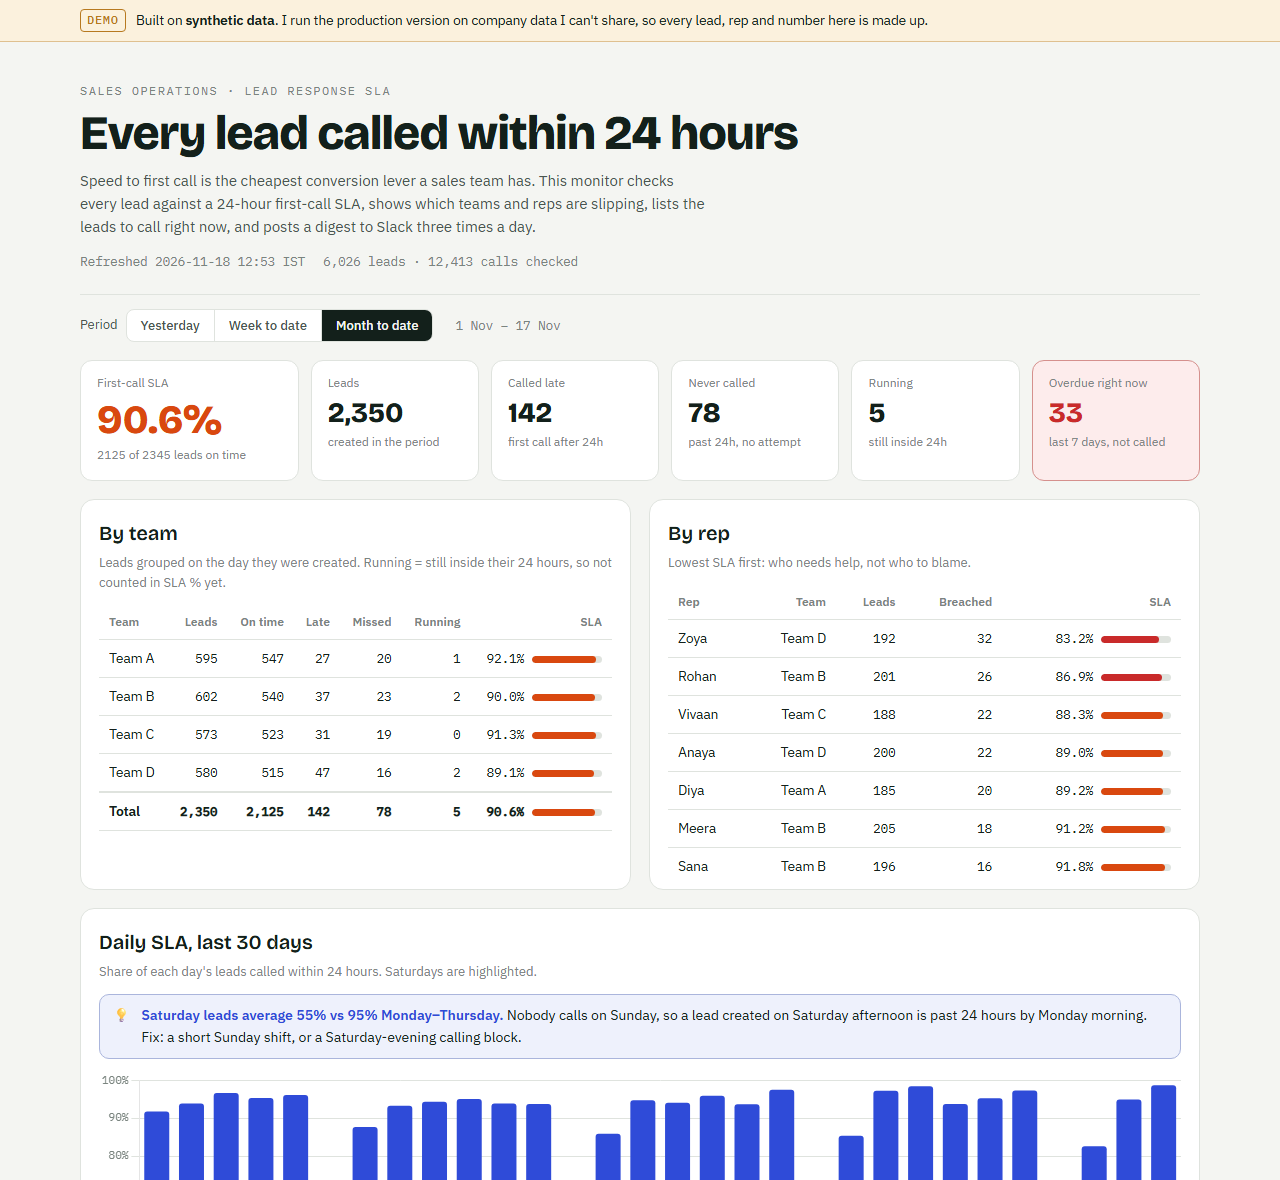
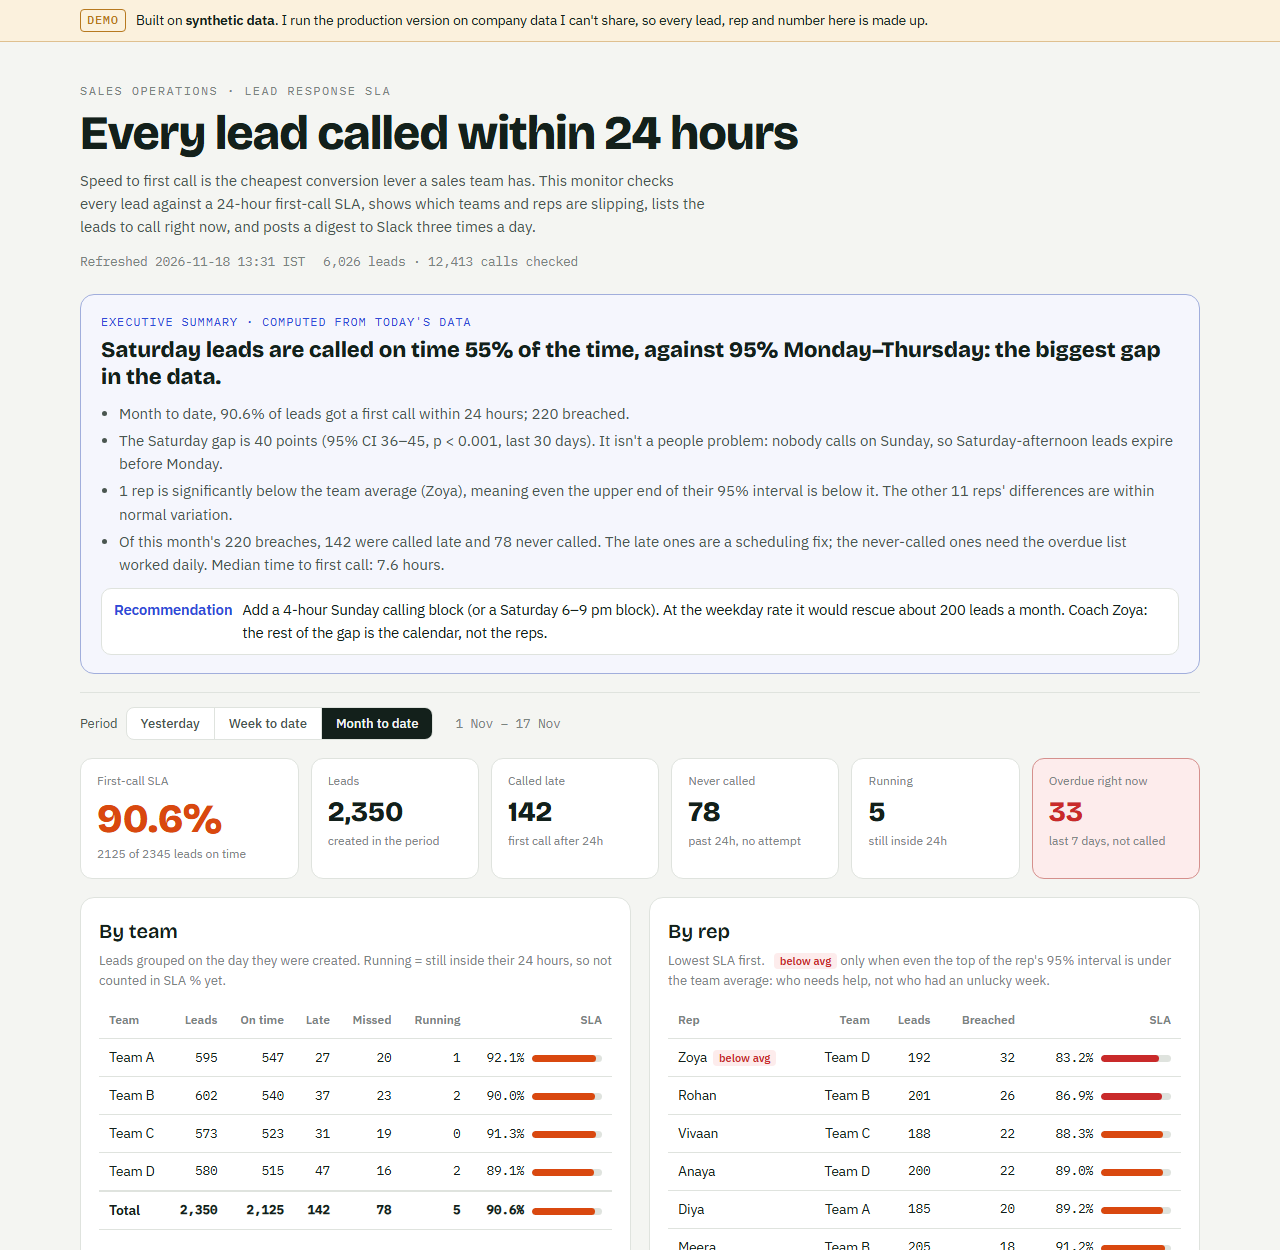
Upgrade: executive summary, statistical checks, limitations, decision memo and data dictionary

diff --git a/site/index.html b/site/index.html
@@ -60,6 +60,15 @@ h1{font-family:var(--f-display);font-weight:800;font-size:clamp(30px,4.6vw,48px)
 .card{background:var(--sheet);border:1px solid var(--line);border-radius:14px;padding:18px 18px 14px;margin-bottom:18px}
 .card h2{font-family:var(--f-display);font-weight:600;font-size:20px;margin:0 0 4px}
 .card .sub{color:var(--ink-3);font-size:13px;margin:0 0 12px}
+.exec{border:1px solid color-mix(in srgb,var(--accent) 35%,var(--line));background:color-mix(in srgb,var(--accent) 5%,var(--sheet));border-radius:14px;padding:18px 20px;margin:0 0 18px}
+.exec .lbl{font-family:var(--f-mono);font-size:11.5px;letter-spacing:.1em;text-transform:uppercase;color:var(--accent)}
+.exec h2{font-family:var(--f-display);font-weight:700;font-size:22px;line-height:1.25;margin:6px 0 10px}
+.exec ul{margin:0 0 12px;padding-left:18px;color:var(--ink-2)} .exec li{margin-bottom:4px}
+.exec .rec{display:flex;gap:10px;align-items:flex-start;background:var(--sheet);border:1px solid var(--line);border-radius:10px;padding:10px 12px;font-size:14.5px}
+.exec .rec b{color:var(--accent);flex:none}
+.sig{font-size:11px;font-weight:600;color:var(--bad);background:var(--bad-soft);border-radius:4px;padding:1px 6px;margin-left:6px}
+.ci{font-family:var(--f-mono);font-size:11px;color:var(--ink-3);margin-left:6px}
+.limits ul{margin:0;padding-left:18px;color:var(--ink-2)} .limits li{margin-bottom:6px}
 .insight{display:flex;gap:10px;align-items:flex-start;background:color-mix(in srgb,var(--accent) 8%,var(--sheet));border:1px solid color-mix(in srgb,var(--accent) 30%,var(--line));border-radius:10px;padding:10px 12px;font-size:14px;margin-bottom:12px}
 .insight b{color:var(--accent)}
 .chart{position:relative;height:280px}
@@ -120,6 +129,8 @@ footer{color:var(--ink-3);font-size:13px;padding:22px 0 40px;display:flex;flex-w
 </div></header>
 
 <main class="wrap">
+  <section class="exec" id="exec" aria-label="Executive summary"></section>
+
   <div class="controls">
     <div class="ctl">Period
       <div class="seg" id="f-period"><button data-v="D-1" aria-pressed="false">Yesterday</button><button data-v="WTD" aria-pressed="false">Week to date</button><button data-v="MTD" aria-pressed="true">Month to date</button></div>
@@ -137,7 +148,7 @@ footer{color:var(--ink-3);font-size:13px;padding:22px 0 40px;display:flex;flex-w
     </section>
     <section class="card">
       <h2>By rep</h2>
-      <p class="sub">Lowest SLA first: who needs help, not who to blame.</p>
+      <p class="sub">Lowest SLA first. <span class="sig">below avg</span> only when even the top of the rep's 95% interval is under the team average: who needs help, not who had an unlucky week.</p>
       <div class="tablewrap scroll" style="max-height:290px"><table id="t-rep"><thead><tr><th>Rep</th><th>Team</th><th>Leads</th><th>Breached</th><th>SLA</th></tr></thead><tbody></tbody></table></div>
     </section>
   </div>
@@ -173,6 +184,16 @@ footer{color:var(--ink-3);font-size:13px;padding:22px 0 40px;display:flex;flex-w
     <h2>What lands in Slack</h2>
     <p class="sub">Generated by the same code as this page, and posted at 10:00, 14:00 and 19:00, Monday to Saturday.</p>
     <div class="slack" id="slack"></div>
+  </section>
+
+  <section class="card limits">
+    <h2>Limitations, and what I'd do next</h2>
+    <ul>
+      <li><b>An attempt isn't a conversation.</b> The SLA counts the first dial, so a rep can meet it with a 2-second call. Next: a second SLA on the first <i>connected</i> call, reported alongside, never instead.</li>
+      <li><b>24 clock hours ignores the calendar.</b> That's deliberate: it's what the lead experiences. But it means Saturday leads miss by design until there's Sunday cover. The fix is staffing, not the metric.</li>
+      <li><b>Calls must be logged to count.</b> Calls from personal phones or unsynced leads look like misses (they appear in the reasons chart). Next: match calls on phone number as well as lead ID.</li>
+      <li><b>Rep comparisons need volume.</b> With about 200 leads a month per rep, only large gaps are significant. Small differences are flagged as noise on purpose.</li>
+    </ul>
   </section>
 
   <section class="card how">
@@ -257,7 +278,7 @@ footer{color:var(--ink-3);font-size:13px;padding:22px 0 40px;display:flex;flex-w
     document.querySelector('#t-team tfoot').innerHTML = P.total ? '<tr><td>Total</td>'+row(P.total)+'</tr>' : '';
     var reps = P.reps.slice().sort(function(a,b){ return (a.sla_pct==null?101:a.sla_pct) - (b.sla_pct==null?101:b.sla_pct); });
     document.querySelector('#t-rep tbody').innerHTML = reps.map(function(g){
-      return '<tr><td>'+g.key+'</td><td>'+(D.repTeam[g.key]||'')+'</td><td class="num">'+fmt(g.leads)+'</td><td class="num">'+fmt(g.breached)+'</td><td class="num">'+pct(g.sla_pct)+'<span class="slabar"><i style="width:'+(g.sla_pct||0)+'%;background:'+slaColor(g.sla_pct)+'"></i></span></td></tr>';
+      return '<tr><td>'+g.key+(g.sig_below ? '<span class="sig">below avg</span>' : '')+'</td><td>'+(D.repTeam[g.key]||'')+'</td><td class="num">'+fmt(g.leads)+'</td><td class="num">'+fmt(g.breached)+'</td><td class="num">'+pct(g.sla_pct)+'<span class="slabar"><i style="width:'+(g.sla_pct||0)+'%;background:'+slaColor(g.sla_pct)+'"></i></span></td></tr>';
     }).join('');
   }
 
@@ -335,6 +356,11 @@ footer{color:var(--ink-3);font-size:13px;padding:22px 0 40px;display:flex;flex-w
   });
   document.querySelector('#t-list').closest('.card').id = 'call-now';
 
+  if (D.summary) {
+    var X = D.summary;
+    document.getElementById('exec').innerHTML = '<div class="lbl">Executive summary · computed from today\'s data</div><h2>' + X.headline + '</h2><ul>' +
+      X.points.map(function(p){ return '<li>' + p + '</li>'; }).join('') + '</ul><div class="rec"><b>Recommendation</b><span>' + X.recommendation + '</span></div>';
+  }
   function all(){ renderPeriod(); renderTrend(); renderDist(); renderReasons(); renderList(); renderSlack(); renderChecks(); }
   all();
   if (document.fonts && document.fonts.ready) document.fonts.ready.then(function(){ renderTrend(); renderDist(); renderReasons(); });

diff --git a/pipeline/build_report.js b/pipeline/build_report.js
@@ -47,11 +47,61 @@ const mtdBreached = rows.filter(r => r.created_date >= ranges.MTD.from && r.crea
 const reasonCounts = {};
 mtdBreached.forEach(r => { const k = reasonBy[r.lead_id] || 'No reason logged'; reasonCounts[k] = (reasonCounts[k] || 0) + 1; });
 
+// ---------- statistics ----------
+function wilson(k, n, z = 1.96) {
+  if (!n) return [null, null];
+  const p = k / n, d = 1 + z * z / n, c = (p + z * z / (2 * n)) / d;
+  const h = z * Math.sqrt(p * (1 - p) / n + z * z / (4 * n * n)) / d;
+  return [Math.max(0, c - h), Math.min(1, c + h)];
+}
+function erfc(x) {                       // Abramowitz-Stegun 7.1.26, |error| < 1.5e-7
+  const t = 1 / (1 + 0.3275911 * x);
+  return t * (0.254829592 + t * (-0.284496736 + t * (1.421413741 + t * (-1.453152027 + t * 1.061405429)))) * Math.exp(-x * x);
+}
+function twoPropTest(k1, n1, k2, n2) {    // two-sided p and 95% CI for p1 - p2
+  const p1 = k1 / n1, p2 = k2 / n2, pp = (k1 + k2) / (n1 + n2);
+  const z = (p1 - p2) / Math.sqrt(pp * (1 - pp) * (1 / n1 + 1 / n2));
+  const se = Math.sqrt(p1 * (1 - p1) / n1 + p2 * (1 - p2) / n2);
+  return { diff: p1 - p2, lo: p1 - p2 - 1.96 * se, hi: p1 - p2 + 1.96 * se, p: erfc(Math.abs(z) / Math.SQRT2) };
+}
+const dowOf = d => new Date(d + 'T00:00:00Z').getUTCDay();
+const done = r => r.status !== 'Running';
+const last30 = rows.filter(r => r.created_date >= days[0] && r.created_date < today && done(r));
+const sat = last30.filter(r => dowOf(r.created_date) === 6), wk = last30.filter(r => [1, 2, 3, 4].includes(dowOf(r.created_date)));
+const onTime = a => a.filter(r => r.status === 'On time').length;
+const satTest = twoPropTest(onTime(sat), sat.length, onTime(wk), wk.length);
+
+const mtdAll = periods.MTD.total, mtdRate = mtdAll && mtdAll.sla_pct != null ? mtdAll.sla_pct / 100 : null;
+for (const p of ['D-1', 'WTD', 'MTD']) {
+  periods[p].reps.forEach(g => {
+    const n = g.on_time + g.late + g.not_called, [lo, hi] = wilson(g.on_time, n);
+    g.ci = [lo, hi];
+    g.sig_below = mtdRate != null && hi != null && hi < mtdRate;        // even the optimistic end is below average
+  });
+}
+const below = periods.MTD.reps.filter(g => g.sig_below).map(g => g.key);
+const satPerMonth = sat.length / (days.length / 30.4);
+const rescued = Math.round(satPerMonth * Math.max(0, -satTest.diff));
+const fmtP = p => p < 0.001 ? 'p < 0.001' : `p = ${p.toFixed(3)}`;
+const summary = {
+  headline: `Saturday leads are called on time ${(100 * onTime(sat) / sat.length).toFixed(0)}% of the time, against ${(100 * onTime(wk) / wk.length).toFixed(0)}% Monday–Thursday: the biggest gap in the data.`,
+  points: [
+    `Month to date, ${mtdAll ? mtdAll.sla_pct.toFixed(1) : '–'}% of leads got a first call within 24 hours; ${mtdAll ? mtdAll.breached : 0} breached.`,
+    `The Saturday gap is ${(100 * -satTest.diff).toFixed(0)} points (95% CI ${(100 * -satTest.hi).toFixed(0)}–${(100 * -satTest.lo).toFixed(0)}, ${fmtP(satTest.p)}, last 30 days). It isn't a people problem: nobody calls on Sunday, so Saturday-afternoon leads expire before Monday.`,
+    below.length ? `${below.length} rep${below.length > 1 ? 's are' : ' is'} significantly below the team average (${below.join(', ')}), meaning even the upper end of their 95% interval is below it. The other ${periods.MTD.reps.length - below.length} reps' differences are within normal variation.`
+                 : `No rep is significantly below the team average; the differences between reps are within normal variation.`,
+    mtdAll ? `Of this month's ${mtdAll.breached} breaches, ${mtdAll.late} were called late and ${mtdAll.not_called} never called. The late ones are a scheduling fix; the never-called ones need the overdue list worked daily. Median time to first call: ${median != null ? median.toFixed(1) : '–'} hours.`
+           : `Median time to first call: ${median != null ? median.toFixed(1) : '–'} hours.`,
+  ],
+  recommendation: `Add a 4-hour Sunday calling block (or a Saturday 6–9 pm block). At the weekday rate it would rescue about ${rescued} leads a month. Coach ${below.length ? below.join(' and ') : 'no one individually'}: the rest of the gap is the calendar, not the reps.`,
+};
+
 const act = sla.actionList(rows, now, 7);
 const slim = r => ({ id: r.lead_id, owner: r.owner, team: r.team, source: r.source, created: r.created_ms, deadline: r.deadline_ms, reason: reasonBy[r.lead_id] || '' });
 
 const data = {
-  synthetic: true,
+  synthetic: true, summary,
+  sat_test: { sat_n: sat.length, sat_on_time: onTime(sat), wk_n: wk.length, wk_on_time: onTime(wk), ...satTest },
   generated_at: new Date(now + tz * 60000).toISOString().slice(0, 16).replace('T', ' ') + ' IST',
   now, sla_hours: sla.SLA_DEFAULTS.slaHours, periods,
   rep_team: Object.fromEntries(leads.map(l => [l.owner, l.team])), daily, dist, median_hours: median,

diff --git a/README.md b/README.md
@@ -14,6 +14,15 @@
 
 > **Demo with synthetic data.** I built and run the production version of this alert for a sales team, on company data I can't share. This repo is a clean-room rebuild: fresh code, made-up leads and reps, the same rules. It also includes a **Google Sheets template you can use on your own data**.
 
+## Executive summary
+
+- **The biggest gap is the calendar, not the reps.** Saturday leads are called on time about 55% of the time against 95% Monday to Thursday (a 40-point gap, 95% CI 36–45, p < 0.001), because nobody calls on Sunday.
+- **Only one rep is significantly below average.** Everyone else's difference is within normal variation, so the monitor doesn't flag them.
+- **Late calls outnumber missed ones**, about two to one. Each needs a different fix.
+- **Recommendation:** a 4-hour Sunday calling block (about 200 leads a month rescued at the weekday rate), coaching for the one outlier, and fixes for the two system causes behind "misses". Full reasoning in the **[decision memo](docs/decision_memo.md)**.
+
+*The live page recomputes this summary three times a day.*
+
 ## The problem
 
 Speed to first call is the cheapest conversion lever a sales team has, and it decays quietly. Nobody notices a lead that was never called. The team sees "calls made", not "leads missed". A weekly report arrives too late to save any of them.
@@ -45,6 +54,23 @@ The team needed three things:
 ## What the demo surfaces
 
 The made-up data is shaped like the real problem, so the report has something to find. For example, **Saturday leads land around 50% SLA against 95% on weekdays**. Nobody calls on Sunday, so a lead created on Saturday afternoon is past 24 hours by Monday morning. The page detects this automatically and suggests the fix.
+
+## Statistical checks
+
+- **Saturday vs weekdays:** a two-proportion z-test with a 95% interval on the difference, over the last 30 complete days.
+- **Reps:** each rep gets a 95% Wilson interval on their on-time rate. A rep is flagged only if even the *upper* end is below the team average. With about 200 leads a month each, that keeps normal variation from turning into a performance conversation.
+
+## Limitations, and what I'd do next
+
+- **An attempt isn't a conversation.** Next: a second SLA on the first *connected* call, reported alongside.
+- **24 clock hours ignores the calendar, deliberately.** It's what the lead experiences, so Saturday misses are a staffing fix, not a metric fix.
+- **Unlogged calls look like misses.** Next: match calls on phone number as well as lead ID.
+- **Rep comparisons need volume.** Only large gaps are significant at this size, by design.
+
+## Documents
+
+- **[Decision memo](docs/decision_memo.md):** the decision, evidence, options, recommendation, and what would change it
+- **[Data dictionary](docs/data_dictionary.md):** inputs, statuses, periods, metrics and statistical rules
 
 ## Run it locally
 

diff --git a/docs/decision_memo.md b/docs/decision_memo.md
@@ -1,0 +1,36 @@
+# Decision memo: closing the lead-response gap
+
+**To:** Head of Sales, sales managers · **From:** Analytics · **Data:** synthetic demo, last 45 days
+
+> Figures are from the live demo on the day this memo was written. The [live executive summary](https://nikhilveerwani.github.io/lead-sla-monitor/) recomputes them three times a day.
+
+## The decision
+
+About 9% of leads miss the 24-hour first-call SLA. Is that a rep-performance problem to coach, or a process problem to fix?
+
+## What we found
+
+1. **The biggest gap is the calendar, not the people.** Saturday leads are called on time 55% of the time against 95% Monday to Thursday: a 40-point gap (95% CI 36–45, p < 0.001). Nobody calls on Sunday, so a lead created Saturday afternoon is past 24 hours by Monday morning.
+2. **Only one rep is significantly below the team average** (Zoya). The other 11 reps differ by amounts that are within normal variation for about 200 leads a month each. Coaching them on this metric would be reacting to noise.
+3. **Late calls outnumber missed ones.** Of this month's breaches, about two-thirds were called late and one-third never called. The two need different fixes: scheduling for the late ones, a worked overdue list for the rest.
+4. **A large share of breaches carry a process reason** in the team's own notes: leads not synced to the CRM, reassigned late, calls from personal phones that never got logged. Several of these are system issues that look like rep misses.
+
+## Options
+
+| Option | Upside | Risk |
+|---|---|---|
+| A. Push all reps harder on the SLA | Simple message | Blames 11 reps for a calendar problem; doesn't touch Saturday |
+| **B. Fix the weekend, coach the one outlier (recommended)** | Targets the biggest, proven gap | Needs weekend staffing |
+| C. Change the SLA to "24 working hours" | Number improves overnight | The lead's experience doesn't; it hides the problem |
+
+## Recommendation: Option B
+
+1. **Add a 4-hour Sunday calling block**, or a Saturday 6–9 pm block if Sunday isn't possible. At the weekday on-time rate, that rescues about **200 leads a month**.
+2. **Coach Zoya individually**, using the breach reasons to separate rep habits from system issues first.
+3. **Fix the two system causes** that show up as misses: CRM sync failures and calls from unlogged personal phones.
+4. **Keep the SLA at 24 clock hours.** It measures what the lead experiences.
+
+## What would change this recommendation
+
+- A Sunday pilot shows Saturday leads called on Sunday convert no better than those called on Monday: then the gap is cosmetic, and the money is better spent elsewhere.
+- Breach reasons show most of Zoya's misses are reassigned or unsynced leads: then it's a routing fix, not coaching.

diff --git a/docs/data_dictionary.md b/docs/data_dictionary.md
@@ -1,0 +1,55 @@
+# Data dictionary
+
+## Inputs (Google Sheet tabs in the template; synthetic CSVs in the demo)
+
+### `Leads`: one row per lead
+
+| Column | Type | Meaning |
+|---|---|---|
+| `lead_id` | text | Unique lead ID |
+| `created_at` | date-time | When the lead was created. Starts the 24-hour clock |
+| `owner` | text | Rep the lead is assigned to |
+| `team` | text | Owner's team |
+| `source` | text | Acquisition source (reporting only) |
+
+### `Calls`: one row per call attempt
+
+| Column | Type | Meaning |
+|---|---|---|
+| `lead_id` | text | Lead called |
+| `called_at` | date-time | Dial time. **Calls before `created_at` are ignored** (earlier registration of the same person) |
+| `rep` | text | Who dialled |
+| `duration_sec` | integer | Talk time; 0 = no answer. Not used by the SLA (attempts count) |
+
+### `reasons.csv` / Breached tab `Reason`, `Comment`
+
+The team's explanation for a breach, chosen from a fixed list. It is kept across refreshes in the hidden `_reasons` tab, keyed by lead ID.
+
+## Statuses (per lead)
+
+| Status | Rule |
+|---|---|
+| **On time** | First call at or before created + 24h |
+| **Late** | First call after the deadline |
+| **Not called** | Deadline passed, no call |
+| **Running** | Inside the 24h window, no call yet. Excluded from SLA % |
+
+## Periods (lead creation date, IST)
+
+| Period | Range |
+|---|---|
+| D-1 | Yesterday |
+| WTD | Monday to yesterday (on Mondays: the previous full week) |
+| MTD | 1st of the month to yesterday |
+
+## Metrics and statistics
+
+| Metric | Definition |
+|---|---|
+| **SLA %** | On time ÷ (On time + Late + Not called) |
+| **Hours to first call** | First call − created, for called leads |
+| **Overdue** | Not called, created in the last 7 days |
+| **At risk** | Running, deadline within 6 hours |
+| **Saturday gap** | Two-proportion z-test, Saturday vs Monday–Thursday leads over the last 30 complete days, with a 95% interval on the difference |
+| **Rep "below avg"** | Upper end of the rep's 95% Wilson interval below the team's MTD SLA |
+| **Leads rescued** | Saturday leads per month × (weekday on-time rate − Saturday on-time rate) |
